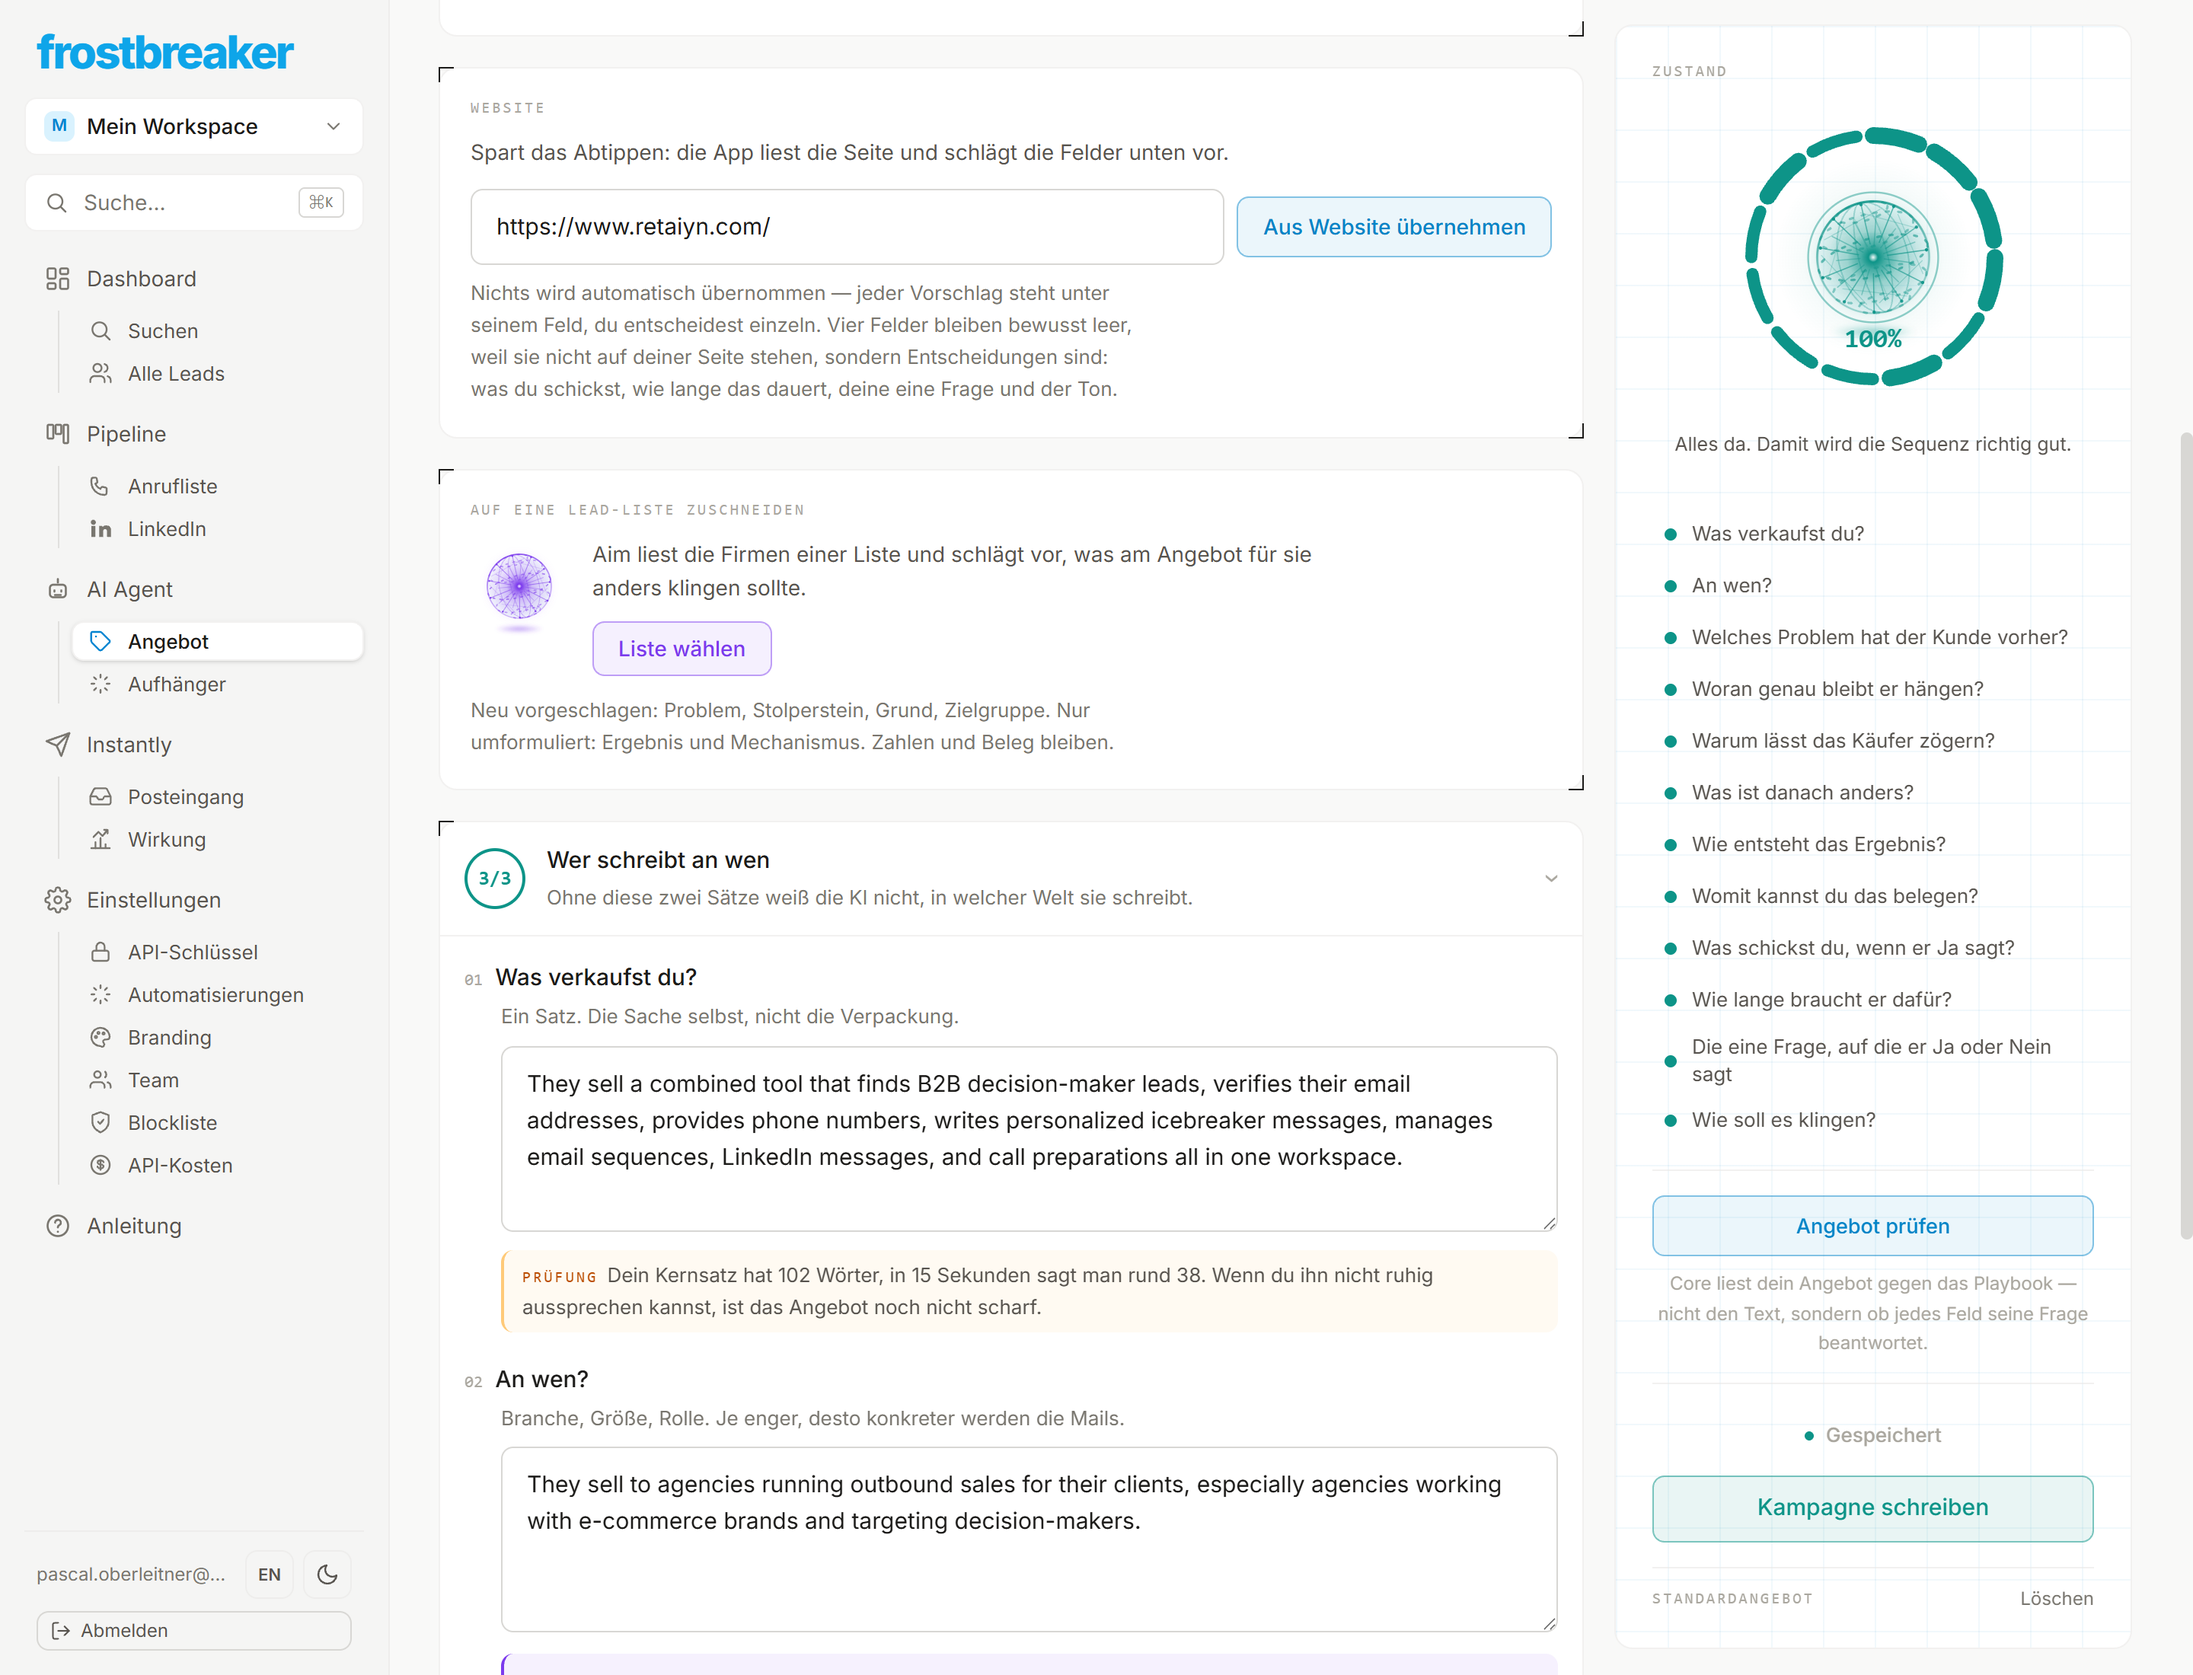
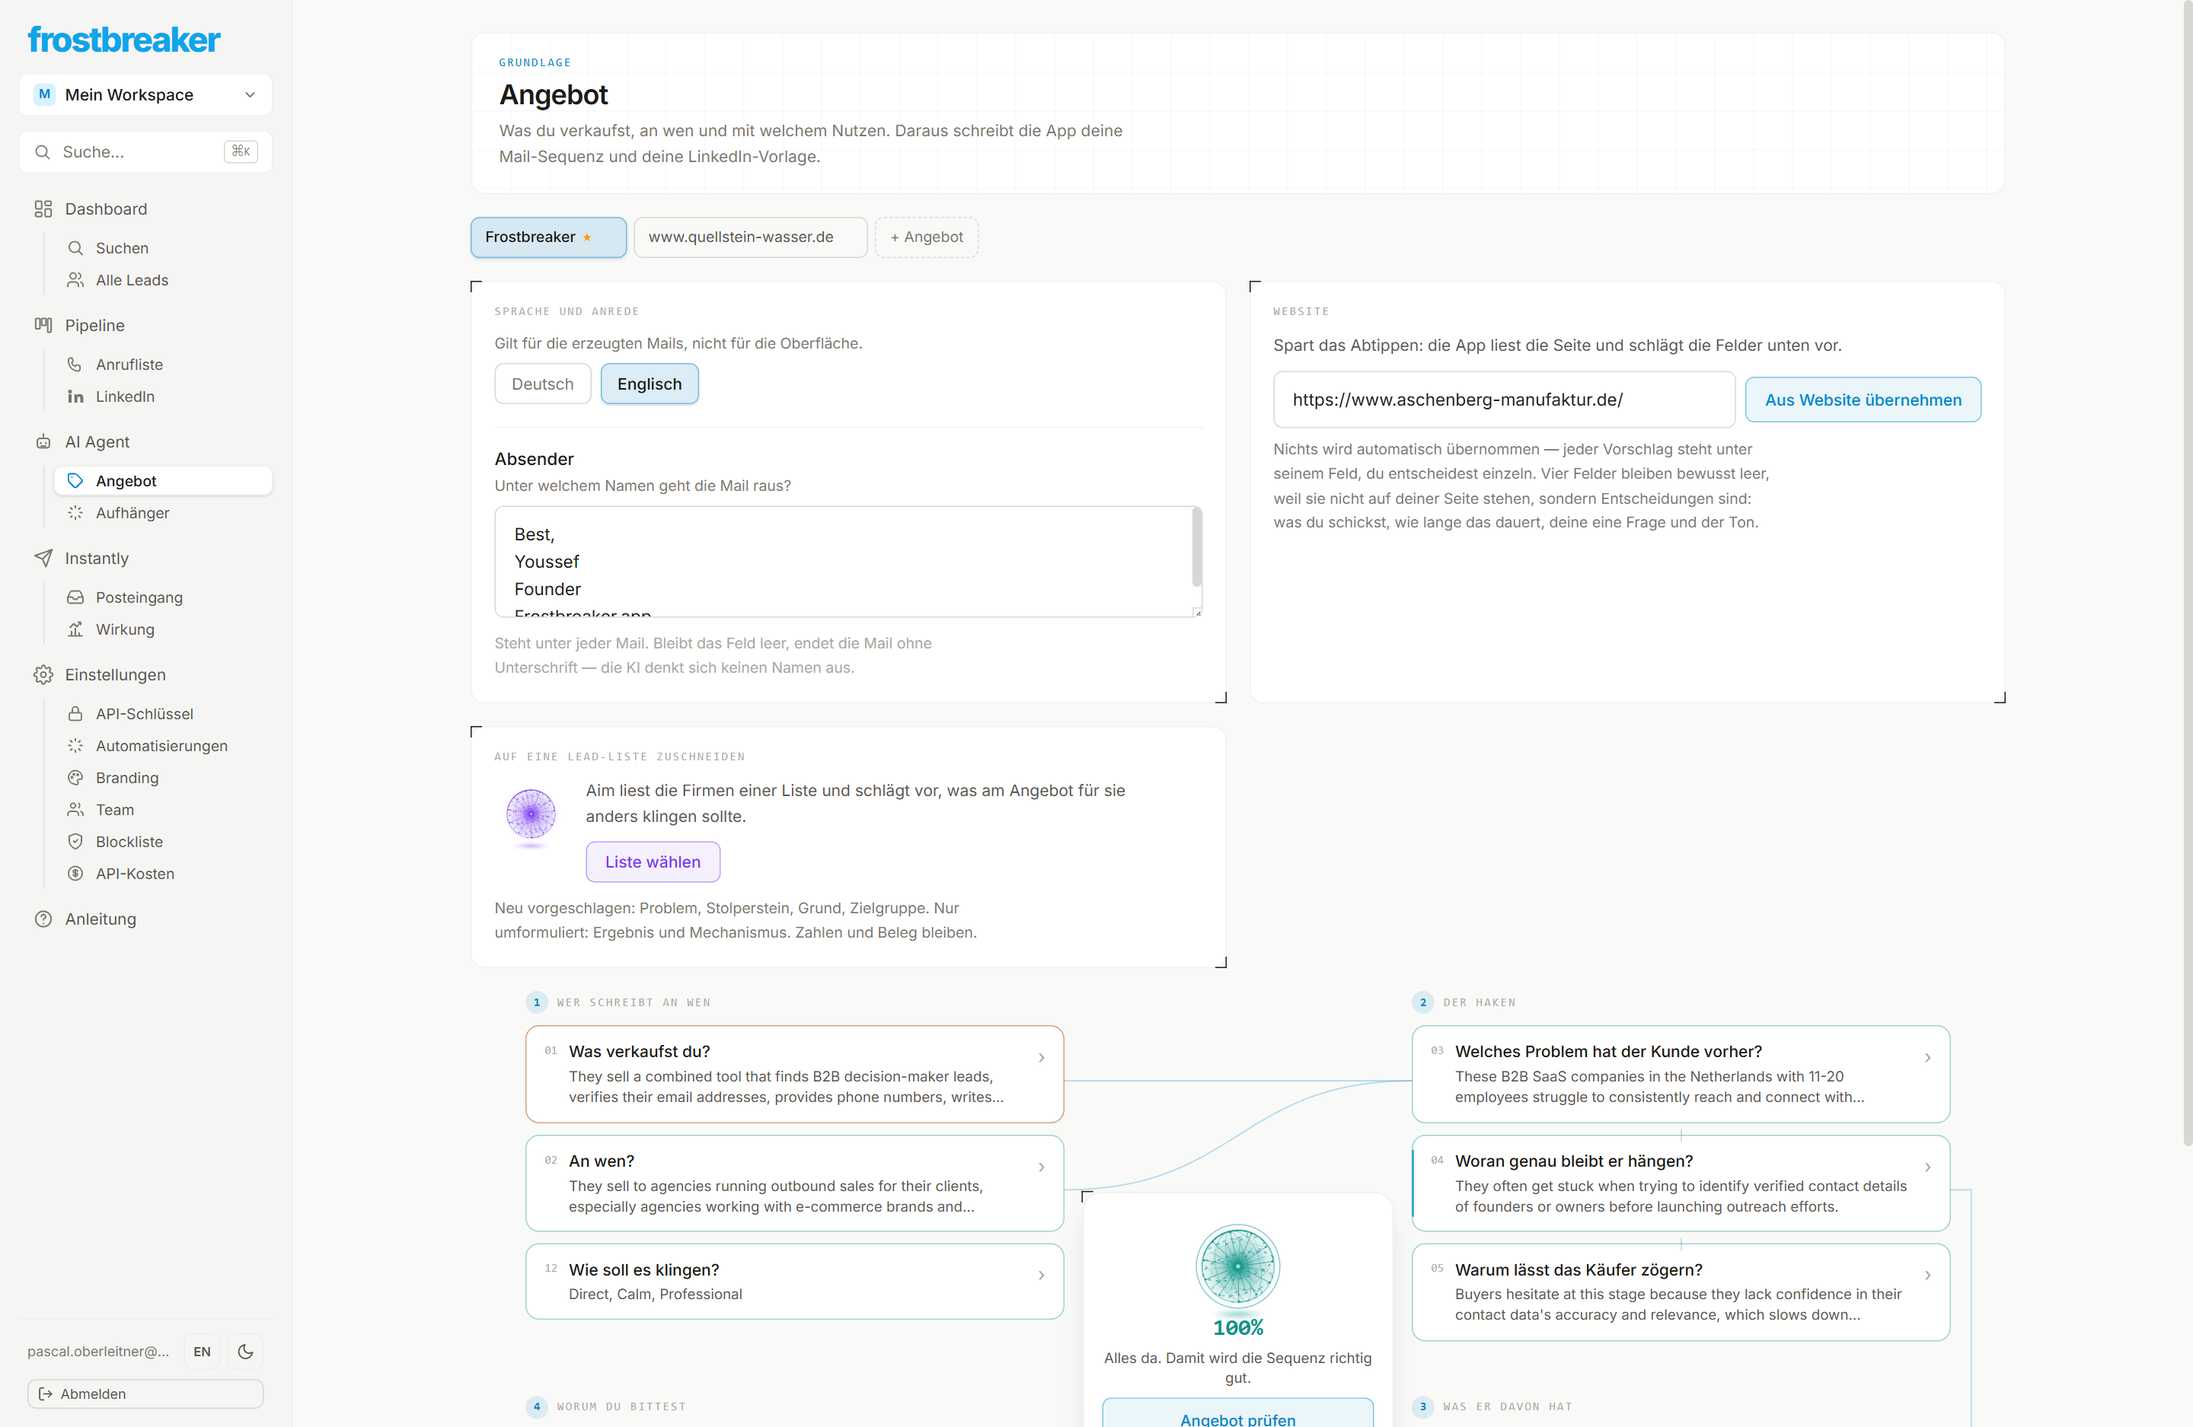
docs(bilder): Core und Aim als Karte, nicht als Formular
Der Betreiber hat zwei eigene Screenshots hinterlegt und damit gezeigt, was
ich uebersehen hatte: die Angebotskarte. Zwoelf Felder in vier Gruppen,
Verbindungslinien mit "GILT FUER" dazwischen, der Vollstaendigkeitsring in
der Mitte. Meine Bilder zeigten stattdessen die schmale Formularfassung.

Der Grund stand die ganze Zeit im Code der Website: die Karte erscheint erst
ab rund 1600 Pixeln Fensterbreite, weil sie ihre Knoten zur Laufzeit misst
und Bezierkurven dazwischen zieht. Ich hatte auf 1440 fotografiert und
bekam deshalb den Rueckfall.

Neu aufgenommen auf 1920 Pixeln, mit zwei Aenderungen gegenueber den
hinterlegten Vorlagen: Oberflaeche auf Deutsch, passend zu den uebrigen elf
Bildern und zur README, und die echte Adresse unten links ist ersetzt.

  04-angebot  Kopf der Karte: Sprache, Absender, das Website-Feld mit "Aus
              Website uebernehmen", darunter der Aim-Kasten und der Beginn
              der vier Gruppen.
  05-aim      Ein echter Lauf gegen die Liste "Maps_Recruitment & Lead Gen
              Agencies". Violette Punkte auf den Feldern, fuer die Aim etwas
              vorschlaegt; Feld 03 aufgeklappt mit dem Vorschlag unter dem
              heutigen Text und den Knoepfen Uebernehmen und Verwerfen.

diff --git a/README.md b/README.md
@@ -64,9 +64,11 @@ den Text, sondern ob jedes Feld seine Frage überhaupt beantwortet.
 
 Vier Felder bleiben bewusst leer, weil sie nicht auf der Website stehen,
 sondern Entscheidungen sind: was ich schicke, wie lange es dauert, meine eine
-Frage und der Ton. Der Ring rechts zeigt, wie weit das Angebot gefüllt ist,
-und Cores Prüfung meldet sich direkt unter dem Feld: *„Dein Kernsatz hat 102
-Wörter, in 15 Sekunden sagt man rund 38."*
+Frage und der Ton.
+
+Die zwölf Felder liegen als Karte in vier Gruppen, nicht als Formular
+untereinander. Die Linien dazwischen zeigen, welches Feld für welches gilt,
+und der Ring in der Mitte sagt, wie weit das Angebot gefüllt ist.
 
 ![Angebot](docs/screenshots/04-angebot.png)
 
@@ -92,9 +94,11 @@ umformuliert. **Zahlen und Beleg bleiben unangetastet.**
 Beide halten dieselbe Grenze ein: **was im Material nicht steht, bleibt leer.**
 Kein Modell erfindet hier eine Referenz oder eine Zahl.
 
-Unten der echte Lauf gegen eine meiner Listen. Der Vorschlag steht unter
-seinem Feld, mit der Liste als Quelle daneben, und ich entscheide einzeln:
-*Übernehmen* oder *Verwerfen*. Nichts wird automatisch geändert.
+Unten ein echter Lauf gegen die Liste *Recruiting & Lead-Gen-Agenturen*.
+Die violetten Punkte markieren die Felder, für die Aim etwas vorschlägt.
+Aufgeklappt steht der Vorschlag unter dem heutigen Text, mit der Liste als
+Quelle daneben, und ich entscheide einzeln: *Übernehmen* oder *Verwerfen*.
+Nichts wird automatisch geändert.
 
 ![Aim](docs/screenshots/05-aim.png)
 
